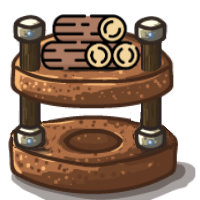
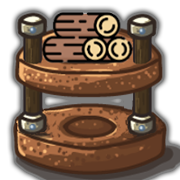
Added images for each tower

diff --git a/src/main/java/seng201/team53/game/round/GameRound.java b/src/main/java/seng201/team53/game/round/GameRound.java
@@ -2,8 +2,14 @@ package seng201.team53.game.round;
 
 import javafx.animation.Interpolator;
 import javafx.animation.PathTransition;
+import javafx.scene.Group;
+import javafx.scene.control.Label;
 import javafx.scene.image.Image;
 import javafx.scene.image.ImageView;
+import javafx.scene.layout.Pane;
+import javafx.scene.layout.StackPane;
+import javafx.scene.paint.Color;
+import javafx.scene.text.Font;
 import seng201.team53.game.GameLoop;
 import seng201.team53.game.state.GameState;
 import seng201.team53.game.state.GameStateHandler;
@@ -57,19 +63,26 @@ public class GameRound implements Tickable {
             stateHandler.setState(GameState.ROUND_COMPLETE);
         }
     }
+
     @Override
     public void tick() {
         map.getTowers().forEach(Tower::tick);
         carts.forEach(cart -> {
             if (cart.getSpawnAfterTicks() == cart.getLifetimeTicks()) {
                 var polylinePath = map.getPolylinePath();
+                var capacityLabel = new Label();
+                capacityLabel.setFont(Font.font("System Regular", 16));
+                capacityLabel.setTextFill(Color.WHITE);
+
                 var imageView = new ImageView(cart.getImage());
+                var pane = new StackPane();
                 imageView.setX(polylinePath.getPoints().get(1));
                 imageView.setY(polylinePath.getPoints().get(0));
-                map.getOverlay().getChildren().add(imageView);
+                map.getOverlay().getChildren().add(pane);
+                pane.getChildren().addAll(imageView, capacityLabel);
 
                 var pathTransition = new PathTransition();
-                pathTransition.setNode(imageView);
+                pathTransition.setNode(pane);
                 pathTransition.setDuration(map.calculatePathDuration(cart.getVelocity()));
                 pathTransition.setPath(polylinePath);
                 pathTransition.setInterpolator(Interpolator.LINEAR);
@@ -78,11 +91,21 @@ public class GameRound implements Tickable {
                     addCartCompletedPath();
                     cart.setCompletedPath(true);
                     cart.setPathTransition(null);
-                    map.getOverlay().getChildren().remove(imageView);
+                    cart.setCapacityLabel(null);
+                    map.getOverlay().getChildren().remove(pane);
                 });
                 cart.setPathTransition(pathTransition);
+                cart.setCapacityLabel(capacityLabel);
+                cart.setImageView(imageView);
+                cart.update();
             }
             cart.tick();
+        });
+        map.getTowers().forEach(tower -> {
+            tower.tick();
+            if (tower.tryGenerate()) {
+                carts.forEach(cart -> cart.addResource(tower.getType().getResourceType()));
+            }
         });
     }
     public void start() {

diff --git a/src/main/java/seng201/team53/items/Cart.java b/src/main/java/seng201/team53/items/Cart.java
@@ -1,10 +1,14 @@
 package seng201.team53.items;
 
 import javafx.animation.PathTransition;
+import javafx.scene.control.Label;
 import javafx.scene.image.Image;
+import javafx.scene.image.ImageView;
 import seng201.team53.game.Tickable;
 
 import java.util.EnumSet;
+
+import static seng201.team53.game.GameEnvironment.getGameEnvironment;
 
 public class Cart implements Tickable {
     private final int maxCapacity;
@@ -15,6 +19,8 @@ public class Cart implements Tickable {
     private int currentCapacity;
     private int lifetimeTicks = 0;
     private PathTransition pathTransition;
+    private Label capacityLabel;
+    private ImageView imageView;
     private boolean completedPath = false;
 
     public Cart(int maxCapacity, float velocity, EnumSet<ResourceType> acceptedResources, int spawnAfterTicks, Image image) {
@@ -70,6 +76,32 @@ public class Cart implements Tickable {
 
     public boolean isCompletedPath() {
         return completedPath;
+    }
+
+    public void addResource(ResourceType generatedResourceType) {
+        if (currentCapacity == maxCapacity)
+            return;
+        if (!acceptedResources.contains(generatedResourceType))
+            return;
+        currentCapacity++;
+        update();
+    }
+
+    public void setCapacityLabel(Label capacityLabel) {
+        this.capacityLabel = capacityLabel;
+    }
+    public void update() {
+        if (capacityLabel == null || imageView == null)
+            return;
+        capacityLabel.setText(currentCapacity + "/" + maxCapacity);
+        if (isFull()) {
+            var fullCartImage = getGameEnvironment().getAssetLoader().getFullCartImage();
+            imageView.setImage(fullCartImage);
+        }
+    }
+
+    public void setImageView(ImageView imageView) {
+        this.imageView = imageView;
     }
 
     @Override

diff --git a/src/main/java/seng201/team53/game/round/GameRoundFactory.java b/src/main/java/seng201/team53/game/round/GameRoundFactory.java
@@ -3,18 +3,28 @@ package seng201.team53.game.round;
 import javafx.scene.image.Image;
 import seng201.team53.game.state.GameStateHandler;
 import seng201.team53.game.map.Map;
+import seng201.team53.items.ResourceType;
 
 import java.util.EnumSet;
 
-import static seng201.team53.items.ResourceType.WOOD;
-
 public class GameRoundFactory {
     public GameRound getRound(GameStateHandler stateHandler, Map map, int roundNumber, Image cartImage) {
-        final int startingMoney = 100;
-        return new GameRound(stateHandler, map, roundNumber, startingMoney) {{
-            addCart(cartImage, 10, 15, EnumSet.of(WOOD), 0);
-            addCart(cartImage, 10, 15, EnumSet.of(WOOD), 10);
-            addCart(cartImage, 10, 15, EnumSet.of(WOOD), 20);
-        }};
+        int startingMoney = 2000 - (roundNumber * 10);
+        float velocity = 5 + (roundNumber * 2);
+        var round = new GameRound(stateHandler, map, roundNumber, startingMoney);
+        int counter = 0;
+        for (int i = 0; i < roundNumber; i++) {
+            var resourceTypes = switch (i % 4) {
+                case 0 -> EnumSet.of(ResourceType.WOOD);
+                case 1 -> EnumSet.of(ResourceType.ORE);
+                case 2 -> EnumSet.of(ResourceType.STONE);
+                default -> EnumSet.of(ResourceType.ENERGY);
+            };
+            for (int j = 0; j <= 1; j++) {
+                round.addCart(cartImage, 10, velocity, resourceTypes, counter * 10);
+                counter++;
+            }
+        }
+        return round;
     }
 }

diff --git a/src/main/java/seng201/team53/items/towers/TowerType.java b/src/main/java/seng201/team53/items/towers/TowerType.java
@@ -22,8 +22,8 @@ public enum TowerType implements Purchasable {
     MINE("Mine",
             "A Mine produces ores",
             ResourceType.STONE,
-            "/assets/items/wood_tower.png",
-            "/assets/items/wood_tower_broken.png",
+            "/assets/items/stone_tower.png",
+            "/assets/items/stone_tower_broken.png",
             120,
             50,
             1,
@@ -31,8 +31,8 @@ public enum TowerType implements Purchasable {
     QUARRY("Quarry",
             "A Quarry produces stone",
             ResourceType.ORE,
-            "/assets/items/wood_tower.png",
-            "/assets/items/wood_tower_broken.png",
+            "/assets/items/quarry_tower.png",
+            "/assets/items/quarry_tower_broken.png",
             150,
             50,
             1,
@@ -40,8 +40,8 @@ public enum TowerType implements Purchasable {
     WIND_MILL("Windmill",
             "A wind mill produces energy",
             ResourceType.ENERGY,
-            "/assets/items/wood_tower.png",
-            "/assets/items/wood_tower_broken.png",
+            "/assets/items/wind_turbine_tower.png",
+            "/assets/items/wind_turbine_tower_broken.png",
             200,
             50,
             1,

diff --git a/src/main/java/seng201/team53/game/assets/AssetLoader.java b/src/main/java/seng201/team53/game/assets/AssetLoader.java
@@ -22,6 +22,7 @@ public class AssetLoader {
     private final HashMap<Integer, TileTemplate> tileTemplates = new HashMap<>();
     private final JSONParser jsonParser = new JSONParser();
     private Image cartImage;
+    private Image fullCartImage;
 
     /**
      * Initializes the MapLoader by loading the tiles
@@ -62,6 +63,9 @@ public class AssetLoader {
     public Image getCartImage() {
         return cartImage;
     }
+    public Image getFullCartImage() {
+        return fullCartImage;
+    }
 
     /**
      * Reads an image resource from a given path
@@ -95,6 +99,7 @@ public class AssetLoader {
      */
     private void loadCartImage() throws IOException {
         cartImage = readImage("/assets/items/cart.png");
+        fullCartImage = readImage("/assets/items/cart_full.png");
     }
 
     /**

diff --git a/src/main/java/seng201/team53/items/towers/Tower.java b/src/main/java/seng201/team53/items/towers/Tower.java
@@ -57,15 +57,17 @@ public class Tower implements Tickable {
         this.xpLevel += amount;
     }
 
-    @Override
-    public void tick() {
-        if (isBroken())
-            return;
-
-        lifetimeTicks++;
-        if (System.currentTimeMillis() - lastGenerateTime >= type.getReloadSpeed().toMillis()) {
+    public boolean tryGenerate() {
+        if (!broken && System.currentTimeMillis() - lastGenerateTime >= type.getReloadSpeed().toMillis()) {
             lastGenerateTime  = System.currentTimeMillis();
             glowAnimation.play();
+            return true;
         }
+        return false;
+    }
+
+    @Override
+    public void tick() {
+        lifetimeTicks++;
     }
 }

diff --git a/src/main/java/seng201/team53/game/cart/CartAnimation.java b/src/main/java/seng201/team53/game/cart/CartAnimation.java
@@ -1,0 +1,14 @@
+package seng201.team53.game.cart;
+
+import seng201.team53.game.Tickable;
+import seng201.team53.game.round.GameRound;
+
+import static seng201.team53.game.GameEnvironment.getGameEnvironment;
+
+public class CartAnimation implements Tickable {
+    @Override
+    public void tick() {
+        var round = getGameEnvironment().getRound();
+
+    }
+}
